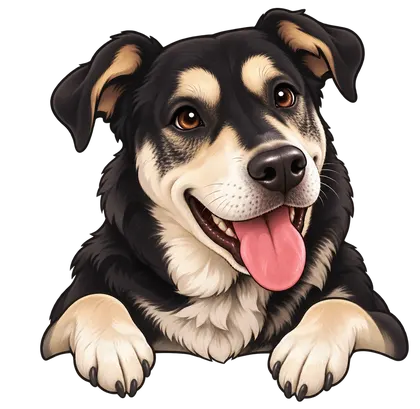
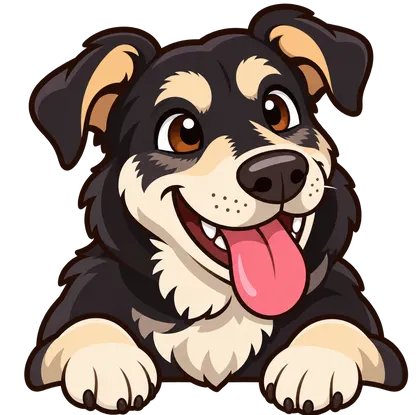
Cartoonize and extend intro dog panting

diff --git a/public/index.html b/public/index.html
@@ -102,10 +102,11 @@ footer{margin-top:28px;color:#78908d;font-size:.76rem;text-align:center}footer s
 .splash-games{position:absolute;z-index:3;left:50%;top:55%;margin:0;color:#b9e2ff;font:900 clamp(2rem,6vw,4.4rem)/1 Outfit,system-ui,sans-serif;letter-spacing:.13em;text-transform:uppercase;text-shadow:0 4px 0 #5087aa66,0 12px 28px #54220e60;transform:translate(-50%,100vh) scale(.25);animation:splash-games-slam .72s cubic-bezier(.12,.84,.22,1) 4.22s forwards}
 .splash-hint{position:absolute;left:50%;bottom:max(22px,env(safe-area-inset-bottom));transform:translateX(-50%);margin:0;color:#ffe3ce;font:600 .8rem 'DM Sans',system-ui,sans-serif;letter-spacing:.08em;opacity:0;animation:splash-hint-show .35s ease 5.05s forwards}
 .splash-dog{position:absolute;z-index:3;bottom:max(-30px,calc(env(safe-area-inset-bottom) - 24px));width:clamp(180px,24vw,350px);max-height:38vh;object-fit:contain;opacity:0;filter:drop-shadow(0 12px 18px #52220f72);will-change:transform,opacity;pointer-events:none}
-.splash-dog--left{left:0;transform:translateX(-118%) rotate(-8deg);animation:splash-dog-peek-left 1.75s cubic-bezier(.18,.8,.2,1) 6s both}
-.splash-dog--right{right:0;transform:translateX(118%) scaleX(-1) rotate(-8deg);animation:splash-dog-peek-right 1.75s cubic-bezier(.18,.8,.2,1) 6s both}
-@keyframes splash-dog-peek-left{0%,16%{transform:translateX(-118%) rotate(-8deg);opacity:0}38%{transform:translateX(-45%) rotate(3deg);opacity:1}52%,76%{transform:translateX(-45%) rotate(0);opacity:1}100%{transform:translateX(-118%) rotate(-8deg);opacity:0}}
-@keyframes splash-dog-peek-right{0%,16%{transform:translateX(118%) scaleX(-1) rotate(-8deg);opacity:0}38%{transform:translateX(45%) scaleX(-1) rotate(3deg);opacity:1}52%,76%{transform:translateX(45%) scaleX(-1) rotate(0);opacity:1}100%{transform:translateX(118%) scaleX(-1) rotate(-8deg);opacity:0}}
+.splash-dog--left{left:0;transform:translateX(-118%) rotate(-8deg);animation:splash-dog-peek-left 3.35s cubic-bezier(.18,.8,.2,1) 4.5s both,splash-dog-pant .52s ease-in-out 5.15s 4}
+.splash-dog--right{right:0;transform:translateX(118%) scaleX(-1) rotate(-8deg);animation:splash-dog-peek-right 3.35s cubic-bezier(.18,.8,.2,1) 4.5s both,splash-dog-pant .52s ease-in-out 5.15s 4}
+@keyframes splash-dog-peek-left{0%,12%{transform:translateX(-118%) rotate(-8deg);opacity:0}23%,75%{transform:translateX(-45%) rotate(0);opacity:1}84%{transform:translateX(-48%) rotate(-3deg);opacity:.95}100%{transform:translateX(-118%) rotate(-8deg);opacity:0}}
+@keyframes splash-dog-peek-right{0%,12%{transform:translateX(118%) scaleX(-1) rotate(-8deg);opacity:0}23%,75%{transform:translateX(45%) scaleX(-1) rotate(0);opacity:1}84%{transform:translateX(48%) scaleX(-1) rotate(-3deg);opacity:.95}100%{transform:translateX(118%) scaleX(-1) rotate(-8deg);opacity:0}}
+@keyframes splash-dog-pant{0%,100%{translate:0 0;scale:1 1}34%{translate:0 -4px;scale:1 1.025}67%{translate:0 1px;scale:1 .99}}
 .splash-overlay.is-leaving{animation:splash-fade-away .48s ease forwards}
 @keyframes splash-orbit-collapse{0%{transform:scale(1) rotate(0);opacity:1}76%{transform:scale(.58) rotate(310deg);opacity:1}100%{transform:scale(.43) rotate(360deg);opacity:.8}}
 @keyframes splash-scatter{0%{transform:translate(0,0) scale(1);opacity:1}100%{transform:translate(var(--scatter-x),var(--scatter-y)) scale(.3) rotate(300deg);opacity:0}}

diff --git a/public/service-worker.js b/public/service-worker.js
@@ -1,4 +1,4 @@
-const CACHE_NAME = "network-tycoon-shell-v2";
+const CACHE_NAME = "network-tycoon-shell-v3";
 const CORE_FILES = ["/","/offline.html","/manifest.webmanifest","/favicon.svg","/icons/network-tycoon-192.png","/icons/network-tycoon-512.png","/icons/network-tycoon-maskable-512.png","/icons/apple-touch-icon.png","/images/dog-dark.webp","/images/dog-tan.webp"];
 self.addEventListener("install", event => event.waitUntil(caches.open(CACHE_NAME).then(cache => cache.addAll(CORE_FILES)).then(() => self.skipWaiting())));
 self.addEventListener("activate", event => event.waitUntil(caches.keys().then(keys => Promise.all(keys.filter(key => key.startsWith("network-tycoon-shell-") && key !== CACHE_NAME).map(key => caches.delete(key)))).then(() => self.clients.claim())));
